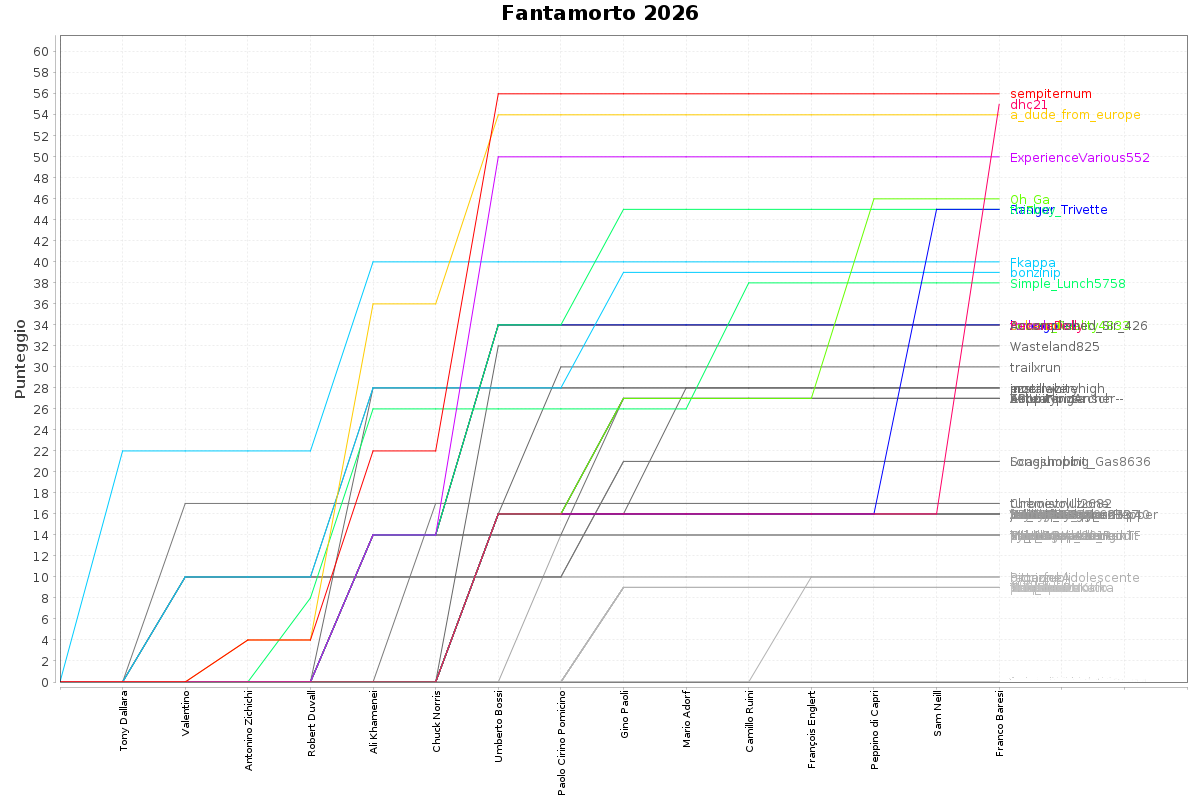
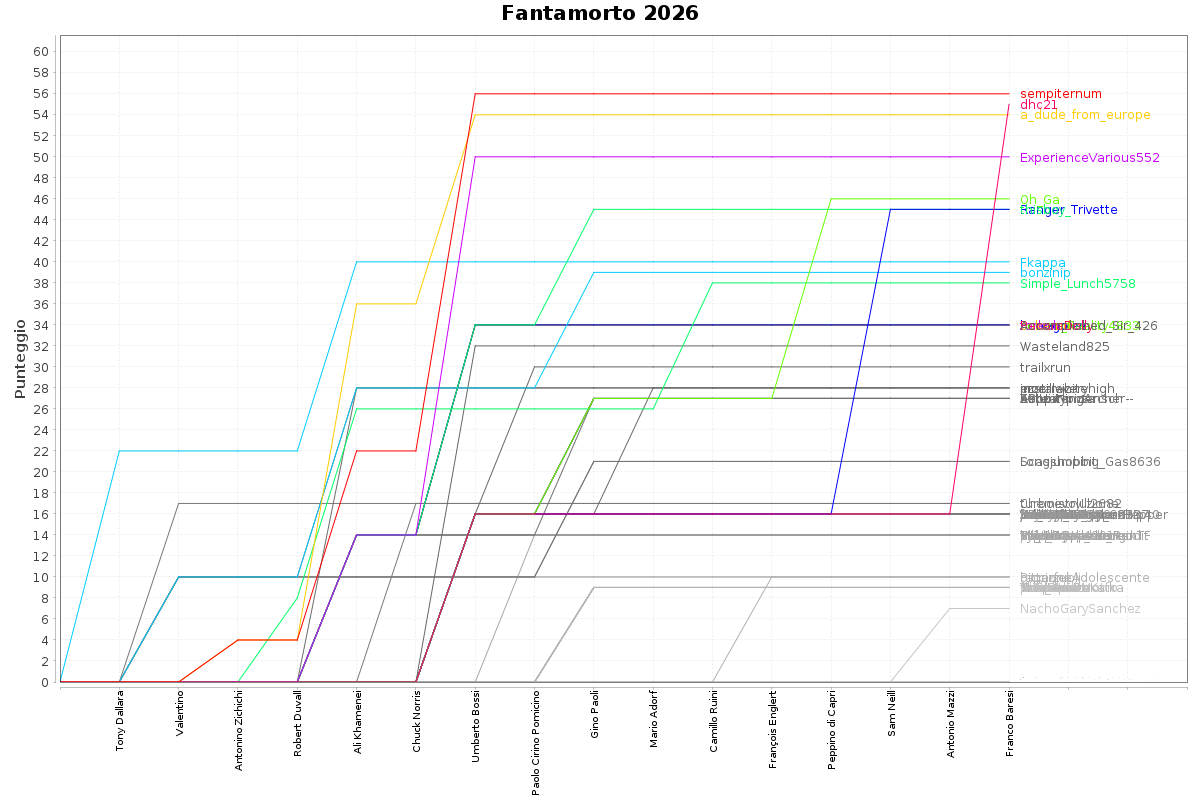
Automatic update

diff --git a/tabellone.html b/tabellone.html
@@ -3553,6 +3553,51 @@
 </tr>
 
 <tr>
+	<td>NachoGarySanchez</td>
+	<td>Bayer Monco</td>
+	<td>
+	
+	<span class="tooltip"><span class="tooltiptext">
+		
+		&nbsp;+3 - SNIPER (Antonio Mazzi)<br/>
+		
+		&nbsp;+4 - MORTO (Antonio Mazzi, età: 96)<br/>
+		
+	</span>7</span>
+	</td>
+	
+	
+	
+		<td><a href="https://www.wikidata.org/wiki/Q392">Bob Dylan</a> <span class="gray">85</span></td>	
+	
+		<td><a href="https://www.wikidata.org/wiki/Q3619873">Antonio Mazzi</a> <span class="gray">96</span>†</td>	
+	
+		<td><a href="https://www.wikidata.org/wiki/Q44420">Giovanni Trapattoni</a> <span class="gray">87</span></td>	
+	
+		<td><a href="https://www.wikidata.org/wiki/Q3826346">Lamberto Sposini</a> <span class="gray">74</span></td>	
+	
+		<td><a href="https://www.wikidata.org/wiki/Q16301183">Bobby Liebling</a> <span class="gray">72</span></td>	
+	
+		<td><a href="https://www.wikidata.org/wiki/Q334288">Jello Biafra</a> <span class="gray">68</span></td>	
+	
+		<td><a href="https://www.wikidata.org/wiki/Q254827">Ronnie Coleman</a> <span class="gray">63</span></td>	
+	
+		<td><a href="https://www.wikidata.org/wiki/Q44313">Steve Austin</a> <span class="gray">61</span></td>	
+	
+		<td><a href="https://www.wikidata.org/wiki/Q1509297">Pierre Palmade</a> <span class="gray">58</span></td>	
+	
+		<td><a href="https://www.wikidata.org/wiki/Q313875">Shawn Crahan</a> <span class="gray">56</span></td>	
+	
+		<td><a href="https://www.wikidata.org/wiki/Q89591512">Sapobully</a> <span class="gray">27</span></td>	
+	
+		<td></td>	
+	
+	
+		
+	<td>67.91</td>
+</tr>
+
+<tr>
 	<td>Ajani95</td>
 	<td>La squadra di Ajani95</td>
 	<td>0</td>
@@ -5533,42 +5578,6 @@
 </tr>
 
 <tr>
-	<td>NachoGarySanchez</td>
-	<td>Bayer Monco</td>
-	<td>0</td>
-	
-	
-	
-		<td><a href="https://www.wikidata.org/wiki/Q392">Bob Dylan</a> <span class="gray">85</span></td>	
-	
-		<td><a href="https://www.wikidata.org/wiki/Q3619873">Antonio Mazzi</a> <span class="gray">96</span></td>	
-	
-		<td><a href="https://www.wikidata.org/wiki/Q44420">Giovanni Trapattoni</a> <span class="gray">87</span></td>	
-	
-		<td><a href="https://www.wikidata.org/wiki/Q3826346">Lamberto Sposini</a> <span class="gray">74</span></td>	
-	
-		<td><a href="https://www.wikidata.org/wiki/Q16301183">Bobby Liebling</a> <span class="gray">72</span></td>	
-	
-		<td><a href="https://www.wikidata.org/wiki/Q334288">Jello Biafra</a> <span class="gray">68</span></td>	
-	
-		<td><a href="https://www.wikidata.org/wiki/Q254827">Ronnie Coleman</a> <span class="gray">63</span></td>	
-	
-		<td><a href="https://www.wikidata.org/wiki/Q44313">Steve Austin</a> <span class="gray">61</span></td>	
-	
-		<td><a href="https://www.wikidata.org/wiki/Q1509297">Pierre Palmade</a> <span class="gray">58</span></td>	
-	
-		<td><a href="https://www.wikidata.org/wiki/Q313875">Shawn Crahan</a> <span class="gray">56</span></td>	
-	
-		<td><a href="https://www.wikidata.org/wiki/Q89591512">Sapobully</a> <span class="gray">27</span></td>	
-	
-		<td></td>	
-	
-	
-		
-	<td>67.91</td>
-</tr>
-
-<tr>
 	<td>Newgate002</td>
 	<td>nu piez</td>
 	<td>0</td>
@@ -6330,7 +6339,7 @@
 <h1>Statistiche</h1>
 <p>Utenti iscritti: <b>163</b></p>
 <p>Atleti in gara: <b>633</b></p>
-<p>Età media atleti: <b>67.9</b></p>
+<p>Età media atleti: <b>67.86</b></p>
 <p>Nazioni rappresentate: <b>72</b></p>
 <p>Occupazioni distinte: <b>141</b></p>
 <p>Generi distinti: <b>6</b></p>
@@ -6455,6 +6464,8 @@
 
 <li>Sam Neill - 2026-07-13 (78)</li>
 
+<li>Antonio Mazzi - 2026-07-31 (96)</li>
+
 <li>Franco Baresi - 2026-07-31 (66)</li>
 
 </ul>
@@ -6506,7 +6517,7 @@
 
 
 <br/>
-<small>Bot uptime: 20d 16h 27m 26s</small><br/>
-<small>Aggiornato: 2026-08-01 01:30:31</small>
+<small>Bot uptime: 21d 4h 29m 52s</small><br/>
+<small>Aggiornato: 2026-08-01 13:32:57</small>
 </body>
 </html>

diff --git a/tabellone2026.html b/tabellone2026.html
@@ -3553,6 +3553,51 @@
 </tr>
 
 <tr>
+	<td>NachoGarySanchez</td>
+	<td>Bayer Monco</td>
+	<td>
+	
+	<span class="tooltip"><span class="tooltiptext">
+		
+		&nbsp;+3 - SNIPER (Antonio Mazzi)<br/>
+		
+		&nbsp;+4 - MORTO (Antonio Mazzi, età: 96)<br/>
+		
+	</span>7</span>
+	</td>
+	
+	
+	
+		<td><a href="https://www.wikidata.org/wiki/Q392">Bob Dylan</a> <span class="gray">85</span></td>	
+	
+		<td><a href="https://www.wikidata.org/wiki/Q3619873">Antonio Mazzi</a> <span class="gray">96</span>†</td>	
+	
+		<td><a href="https://www.wikidata.org/wiki/Q44420">Giovanni Trapattoni</a> <span class="gray">87</span></td>	
+	
+		<td><a href="https://www.wikidata.org/wiki/Q3826346">Lamberto Sposini</a> <span class="gray">74</span></td>	
+	
+		<td><a href="https://www.wikidata.org/wiki/Q16301183">Bobby Liebling</a> <span class="gray">72</span></td>	
+	
+		<td><a href="https://www.wikidata.org/wiki/Q334288">Jello Biafra</a> <span class="gray">68</span></td>	
+	
+		<td><a href="https://www.wikidata.org/wiki/Q254827">Ronnie Coleman</a> <span class="gray">63</span></td>	
+	
+		<td><a href="https://www.wikidata.org/wiki/Q44313">Steve Austin</a> <span class="gray">61</span></td>	
+	
+		<td><a href="https://www.wikidata.org/wiki/Q1509297">Pierre Palmade</a> <span class="gray">58</span></td>	
+	
+		<td><a href="https://www.wikidata.org/wiki/Q313875">Shawn Crahan</a> <span class="gray">56</span></td>	
+	
+		<td><a href="https://www.wikidata.org/wiki/Q89591512">Sapobully</a> <span class="gray">27</span></td>	
+	
+		<td></td>	
+	
+	
+		
+	<td>67.91</td>
+</tr>
+
+<tr>
 	<td>Ajani95</td>
 	<td>La squadra di Ajani95</td>
 	<td>0</td>
@@ -5533,42 +5578,6 @@
 </tr>
 
 <tr>
-	<td>NachoGarySanchez</td>
-	<td>Bayer Monco</td>
-	<td>0</td>
-	
-	
-	
-		<td><a href="https://www.wikidata.org/wiki/Q392">Bob Dylan</a> <span class="gray">85</span></td>	
-	
-		<td><a href="https://www.wikidata.org/wiki/Q3619873">Antonio Mazzi</a> <span class="gray">96</span></td>	
-	
-		<td><a href="https://www.wikidata.org/wiki/Q44420">Giovanni Trapattoni</a> <span class="gray">87</span></td>	
-	
-		<td><a href="https://www.wikidata.org/wiki/Q3826346">Lamberto Sposini</a> <span class="gray">74</span></td>	
-	
-		<td><a href="https://www.wikidata.org/wiki/Q16301183">Bobby Liebling</a> <span class="gray">72</span></td>	
-	
-		<td><a href="https://www.wikidata.org/wiki/Q334288">Jello Biafra</a> <span class="gray">68</span></td>	
-	
-		<td><a href="https://www.wikidata.org/wiki/Q254827">Ronnie Coleman</a> <span class="gray">63</span></td>	
-	
-		<td><a href="https://www.wikidata.org/wiki/Q44313">Steve Austin</a> <span class="gray">61</span></td>	
-	
-		<td><a href="https://www.wikidata.org/wiki/Q1509297">Pierre Palmade</a> <span class="gray">58</span></td>	
-	
-		<td><a href="https://www.wikidata.org/wiki/Q313875">Shawn Crahan</a> <span class="gray">56</span></td>	
-	
-		<td><a href="https://www.wikidata.org/wiki/Q89591512">Sapobully</a> <span class="gray">27</span></td>	
-	
-		<td></td>	
-	
-	
-		
-	<td>67.91</td>
-</tr>
-
-<tr>
 	<td>Newgate002</td>
 	<td>nu piez</td>
 	<td>0</td>
@@ -6330,7 +6339,7 @@
 <h1>Statistiche</h1>
 <p>Utenti iscritti: <b>163</b></p>
 <p>Atleti in gara: <b>633</b></p>
-<p>Età media atleti: <b>67.9</b></p>
+<p>Età media atleti: <b>67.86</b></p>
 <p>Nazioni rappresentate: <b>72</b></p>
 <p>Occupazioni distinte: <b>141</b></p>
 <p>Generi distinti: <b>6</b></p>
@@ -6455,6 +6464,8 @@
 
 <li>Sam Neill - 2026-07-13 (78)</li>
 
+<li>Antonio Mazzi - 2026-07-31 (96)</li>
+
 <li>Franco Baresi - 2026-07-31 (66)</li>
 
 </ul>
@@ -6506,7 +6517,7 @@
 
 
 <br/>
-<small>Bot uptime: 20d 16h 27m 26s</small><br/>
-<small>Aggiornato: 2026-08-01 01:30:31</small>
+<small>Bot uptime: 21d 4h 29m 52s</small><br/>
+<small>Aggiornato: 2026-08-01 13:32:57</small>
 </body>
 </html>
